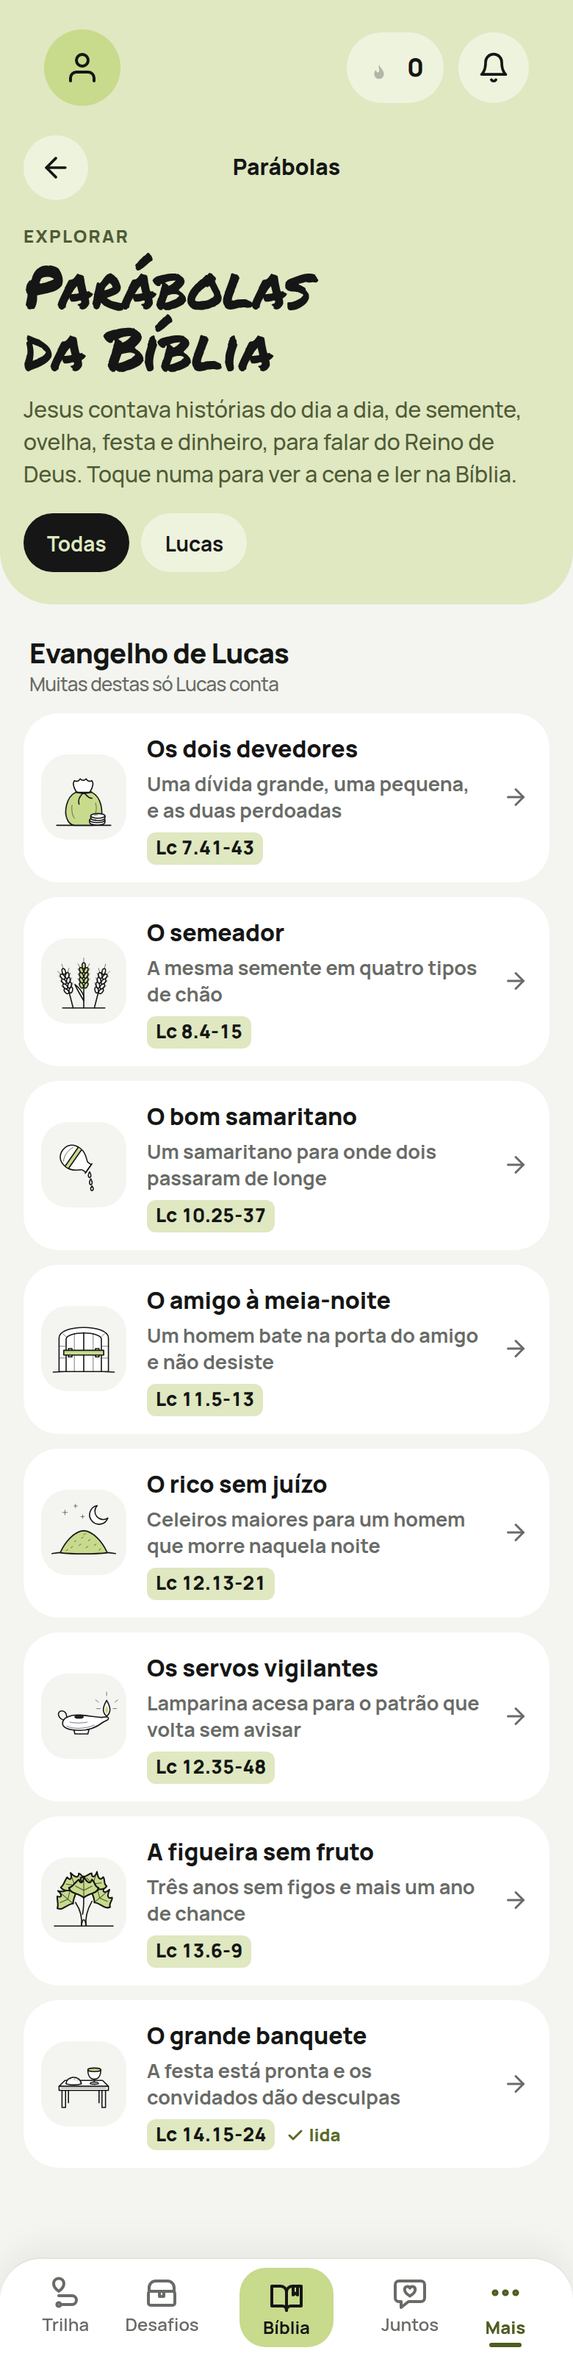
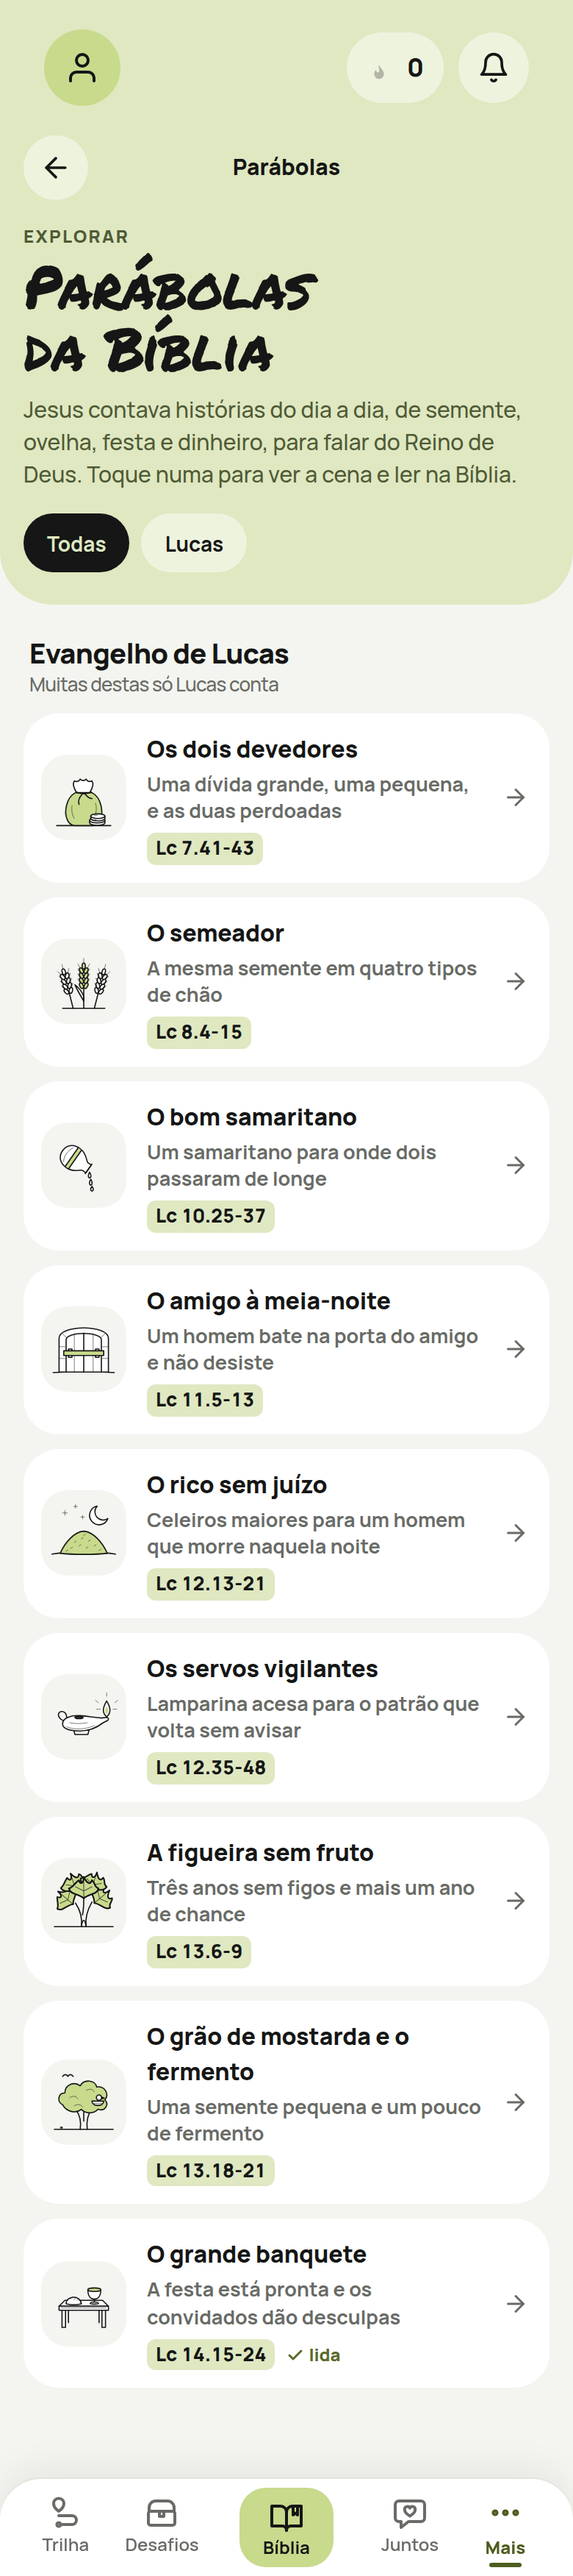
Parábola do grão de mostarda e do fermento
O grão de mostarda e o fermento (Lc 13.18-21, com a cura da mulher
encurvada de 13.10-17): as duas comparações num bloco de itens e as
parecidas em Mt 13.31-33 e Mc 4.30-32. Desenhos novos da árvore com o
ninho e da árvore com a massa. O nome no pincel que não cabe numa linha
nem a 26px volta ao tamanho cheio e quebra em duas.

Claude-Session: https://claude.ai/code/session_0181e5xzHUW8QLQRgjbfooCS

diff --git a/src/sob-demanda/parabola-tela.js b/src/sob-demanda/parabola-tela.js
@@ -143,13 +143,16 @@
       + '<div data-notas-contexto="parabola:' + CC.esc(slug) + '" data-tipo-nota="nota"></div></div>';
   }
 
-  // O nome no pincel encolhe até caber numa linha (como o nome do livro no mapa).
+  // O nome no pincel encolhe até caber numa linha (como o nome do livro no mapa). Nome que nem
+  // a 26px cabe ("O grão de mostarda e o fermento") volta ao tamanho cheio e quebra em duas linhas.
   function ajustarNome(raiz) {
     const nome = raiz.querySelector('.parabola-nome');
     if (!nome) return;
     nome.style.fontSize = '';
+    nome.style.whiteSpace = '';
     let tamanho = parseFloat(getComputedStyle(nome).fontSize);
-    for (let i = 0; i < 10 && tamanho > 24 && nome.scrollWidth > nome.clientWidth + 1; i++) { tamanho -= 2; nome.style.fontSize = tamanho + 'px'; }
+    for (let i = 0; i < 10 && tamanho > 26 && nome.scrollWidth > nome.clientWidth + 1; i++) { tamanho -= 2; nome.style.fontSize = tamanho + 'px'; }
+    if (nome.scrollWidth > nome.clientWidth + 1) { nome.style.fontSize = ''; nome.style.whiteSpace = 'normal'; }
   }
 
   let observador = null;
